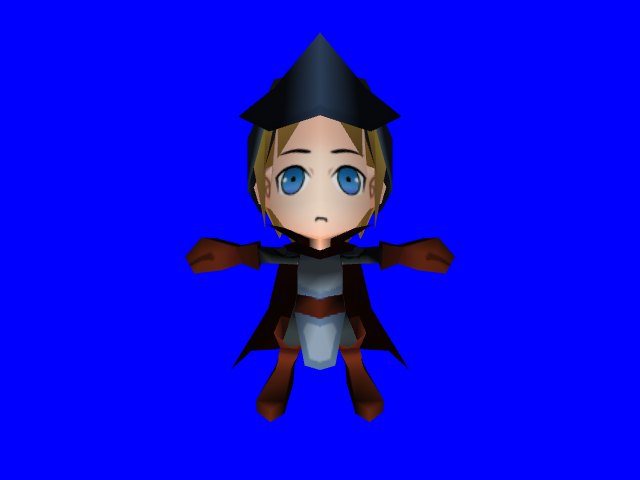
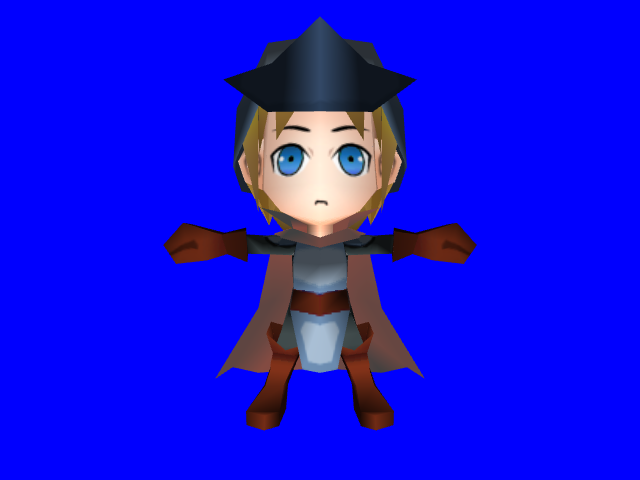
check vertex color

Changed region(s): [[0.25, 0.0312, 0.75, 0.9062]]

diff --git a/app/scripts/main.js b/app/scripts/main.js
@@ -60,15 +60,17 @@ var main = function() {
             }
             let vertexColor = [];
             for (let j = 0; j < group.vertex.length; ++j) {
-                Array.prototype.push.apply(vertexColor, [1.0, 1.0, 1.0, 0.0]);
+                Array.prototype.push.apply(vertexColor, 
+                    (group.color === null ? [1.0, 1.0, 1.0, 1.0] : group.color[j]));
             }
             let materialColor = [];
             for (let j = 0; j < group.vertex.length; ++j) {
                 Array.prototype.push.apply(materialColor,
                     (group.materialId === -1 ? [1.0, 1.0, 1.0, 0.0] : materials[group.materialId].color));
             }
+            let textureUV = group.uv;
             let pvbo = sgl.createVBO(vertex);
-            let tvbo = sgl.createVBO(group.uv);
+            let tvbo = (textureUV === null) ? null : sgl.createVBO(textureUV);
             let cvbo = sgl.createVBO(vertexColor);
             let mvbo = sgl.createVBO(materialColor);
             let texture = (group.materialId === -1 ? null : materials[group.materialId].texture);
@@ -88,9 +90,9 @@ var main = function() {
         
         //var vecLook = mqo.getScene().pos;
         //minMatrix.lookAt(vecLook, mqo.getScene().lookat, [0, 1, 0], mtxView);
-        var vecLook = [0.0, 140.0, 240.0]
-        minMatrix.lookAt(vecLook, [0, 140, 0], [0, 1, 0], mtxView);
-        minMatrix.perspective(90, sgl.getWidth() / sgl.getHeight(), 0.1, 10000, mtxProj);
+        var vecLook = [0.0, 130.0, 450.0]
+        minMatrix.lookAt(vecLook, [0, 130, 0], [0, 1, 0], mtxView);
+        minMatrix.perspective(45, sgl.getWidth() / sgl.getHeight(), 0.1, 10000, mtxProj);
         minMatrix.multiply(mtxProj, mtxView, mtxTmp);
 
         var ambient = mqo.getScene().amb;

diff --git a/app/scripts/metasequoia.js b/app/scripts/metasequoia.js
@@ -405,14 +405,27 @@
                         ]
                     );
                 }
-                var uvArray = [];
+                var uvArray = null;
                 if (this.objects[i].face[j].UV !== null) {
+                    uvArray = [];
                     for (let k = 0; k < this.objects[i].face[j].UV.length; ++k) {
                         uvArray.push(this.objects[i].face[j].UV[k]);
                     }
                 }
+                var colArray = null;
+                if (this.objects[i].face[j].COL !== null) {
+                    colArray = [];
+                    for (let k = 0; k < this.objects[i].face[j].COL.length; ++k) {
+                        let color = this.objects[i].face[j].COL[k];
+                        let r = (color & 0x000000FF) >>   0;
+                        let g = (color & 0x0000FF00) >>   8;
+                        let b = (color & 0x00FF0000) >>  16;
+                        let a = (color & 0xFF000000) >>> 24; // 符号なし右シフト
+                        colArray.push([r, g, b, a]);
+                    }
+                }
                 var materialId = this.objects[i].face[j].M;
-                this.groups.push({'name': this.objects[i].name, 'vertex': vertexArray, 'uv': uvArray, 'normal': normalArray, 'materialId': materialId});
+                this.groups.push({'name': this.objects[i].name, 'vertex': vertexArray, 'uv': uvArray, 'normal': normalArray, 'color':colArray, 'materialId': materialId});
             }
         }
     };
